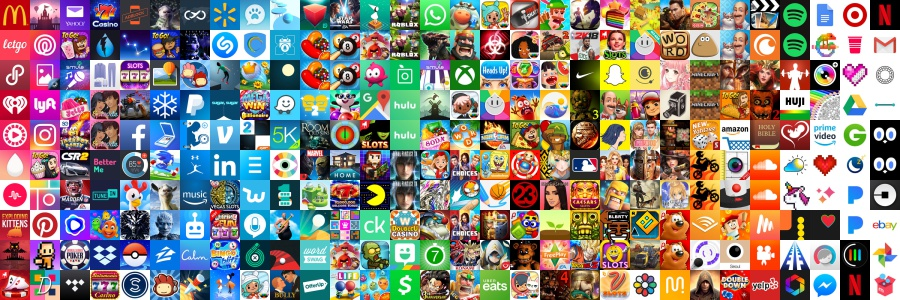
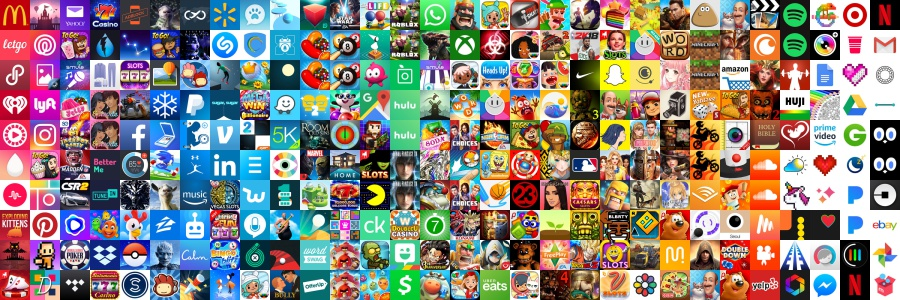
added color sorting to kmeans output and saved results to cluster_results dir

diff --git a/icon_cluster_color_kmeans.py b/icon_cluster_color_kmeans.py
@@ -1,24 +1,30 @@
-#TODO: add sorting by color within color montage
 import cv2
 import glob
-import utils
 import argparse
-import colorutils
+import utils
+import utils.colorutils
 import numpy as np
 from sklearn.cluster import KMeans
+import random
 
 # construct the argument parse and parse the arguments
 ap = argparse.ArgumentParser()
 ap.add_argument("-d", "--dataset", default='icons',
 	help="path to the input dataset directory")
+ap.add_argument("-o", "--output", default='cluster_results',
+	help="path to the output directory")
 ap.add_argument("-k", "--clusters", type=int, default=5,
 	help="# of clusters to generate")
 ap.add_argument("-c", "--colorSpace", default='bgr',
 	help="color space to use (bgr, hsv, or lab); defaults to bgr")
+ap.add_argument("-s", "--randomseed", type=int, default=42,
+	help="random seed to set for repro results")
 args = vars(ap.parse_args())
 
+random.seed(args['randomseed'])
+
 # initialize the image descriptor along with the image matrix
-desc = colorutils.color_histogram([8, 8, 8], color_space = args['colorSpace'])
+desc = utils.colorutils.color_histogram([8, 8, 8], color_space = args['colorSpace'])
 data = []
 
 # grab the image paths from the dataset directory
@@ -41,14 +47,17 @@ for label in np.unique(labels):
 	# grab all image paths that are assigned to the current label
 	label_paths = image_paths[np.where(labels == label)]
 
-	montage = utils.results_montage(image.shape, 7, label_paths.shape[0])
+	sorted_montage = utils.create_sorted_color_montage(
+		label_paths, 
+		tile_size = (100,100),  
+		images_per_main_axis = 5, 
+		by_row = False, 
+		color_processing_size = (25,25),
+		verbose=False
+		)
 
-	# loop over the image paths that belong to the current label
-	for (i, path) in enumerate(label_paths):
-		# load the image and add to montage
-		image = cv2.imread(path)
-		montage.add_result(image)
-
-	cv2.imshow('cluster {}'.format(label), montage.montage)
+	cv2.imwrite('{}/cluster_{}.jpg'.format(args['output'], label), sorted_montage)
+	cv2.imshow('cluster {}'.format(label), sorted_montage)
 	# wait for a keypress and then close all open windows
 	cv2.waitKey(0)
+	cv2.destroyAllWindows()

diff --git a/sort_icons_by_color.py b/sort_icons_by_color.py
@@ -1,8 +1,9 @@
+#this functionality is now in the function `utils.create_sorted_color_montage()`
 import cv2
 import glob
 import utils
 import imutils
-from colorutils import get_dominant_color
+from utils.colorutils import get_dominant_color
 
 # grab the image paths from the dataset directory
 image_paths = glob.glob('{}/*.jpg'.format('icons'))
